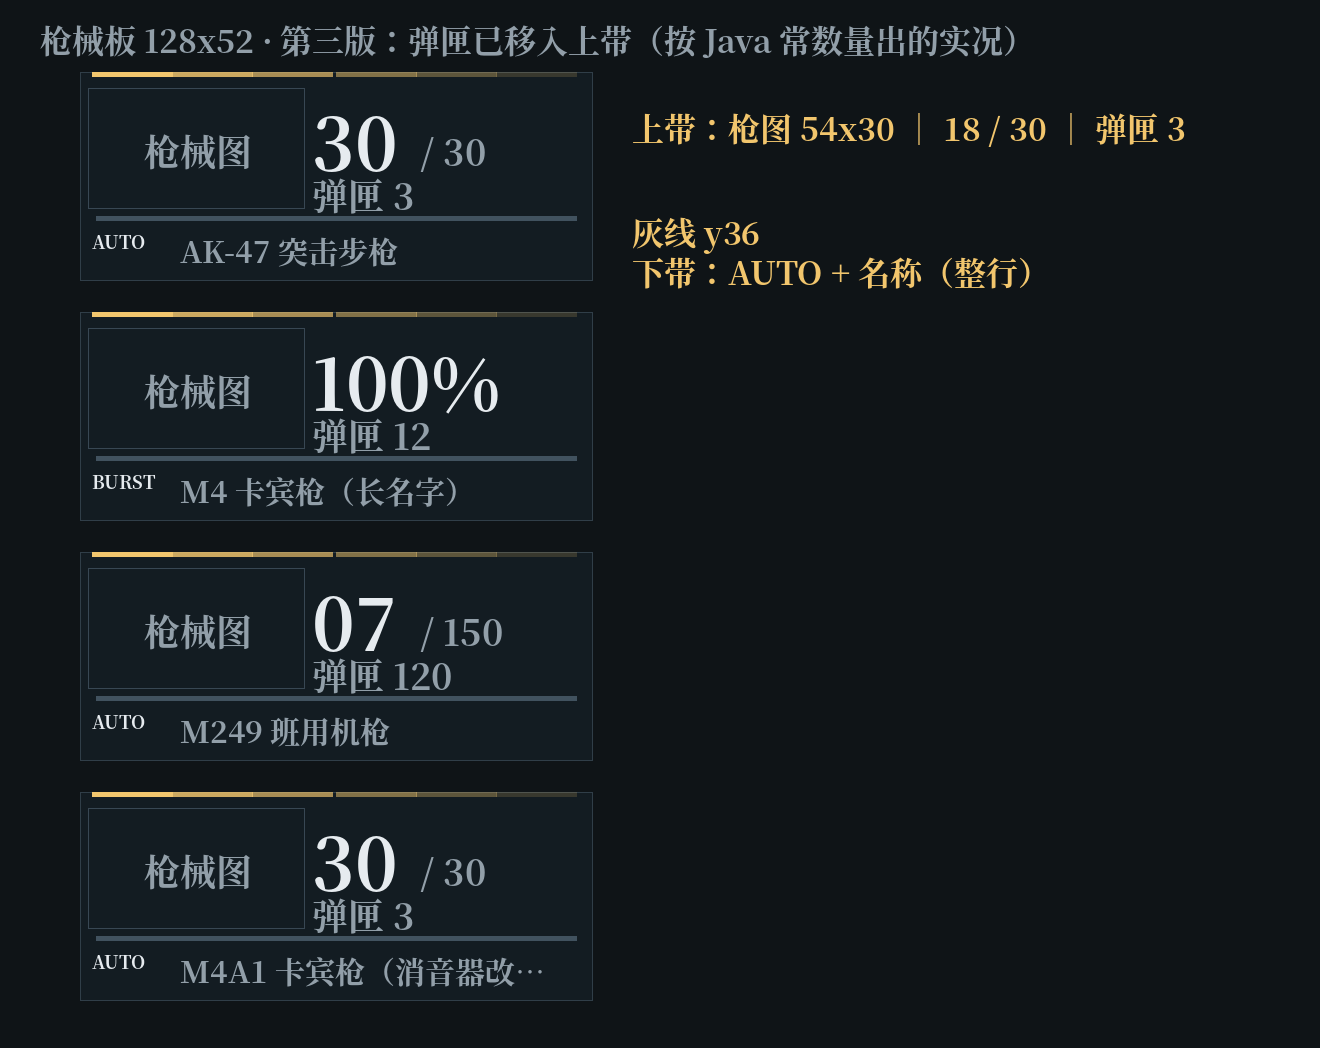
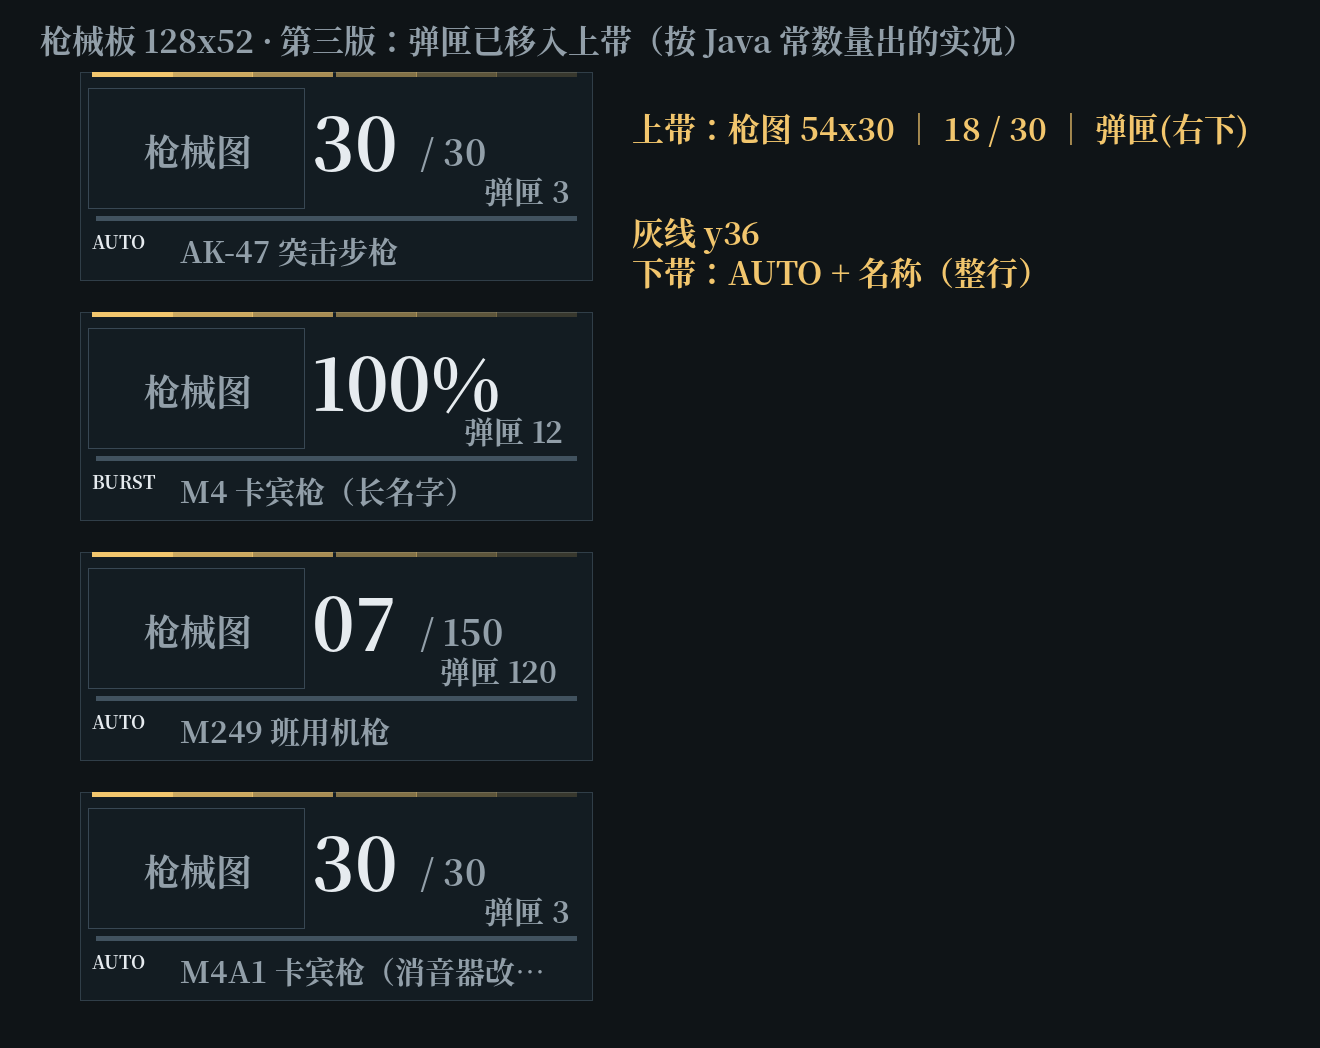
ui: park the reserve in the bottom-right corner of the upper band
Chosen instead of sharing the ammo line, which does not fit in 128px. The reserve
is right aligned inside the upper band and drawn at 0.85, so it reads as part of
that band while the whole caption row stays free for the gun name. Truncation
still keeps the number (clipTail) and the preview is regenerated.

diff --git a/src/main/java/dev/felix/hostilehumans/monitor/client/MonitorGunHud.java b/src/main/java/dev/felix/hostilehumans/monitor/client/MonitorGunHud.java
@@ -114,8 +114,12 @@ public final class MonitorGunHud {
         finally{g.pose().popPose();}
         if(capacityWidth>0)g.drawString(font,capacity,columnX+amountWidth+3,y+13,theme.muted(),false);
         String reserve=Component.translatable("human_monitor.gun.magazines",value.infinite()?"∞":value.magazines()).getString();
-        String reserveText=clipTail(font,reserve,columnRight-columnX);
-        g.drawString(font,reserveText,columnX,y+24,theme.muted(),false);
+        // Reserve sits in the bottom-right corner of the upper band, a step smaller than the rest.
+        float reserveScale=.85F;
+        String reserveText=clipTail(font,reserve,(int)((columnRight-columnX)/reserveScale));
+        int reserveWidth=Math.round(font.width(reserveText)*reserveScale);
+        g.pose().pushPose();try {g.pose().translate(columnRight-reserveWidth,y+24,0);g.pose().scale(reserveScale,reserveScale,1);g.drawString(font,reserveText,0,0,theme.muted(),false);}
+        finally{g.pose().popPose();}
         UiDraw.ruleFade(g,x+4,y+36,pw-8,theme.edge());
         // Caption row: fire mode, then the gun name across the rest of the width.
         String mode=value.reloading()?Component.translatable("human_monitor.gun.reloading").getString():data.energy()?"FE":data.mode();

diff --git a/docs/UI_FRAME.md b/docs/UI_FRAME.md
@@ -148,7 +148,7 @@
 
 现在 **128×52**，两条带：
 
-- **上带**：枪图 54×30 在左；右侧一列从 x=58 起紧贴枪图——第一行 `18 / 30`（大号弹数 + 紧跟其后的容量，这一对的配合保持不变），第二行是弹匣数。整列左对齐，不再浮在右边。
+- **上带**：枪图 54×30 在左；右侧一列从 x=58 起紧贴枪图——第一行 `18 / 30`（大号弹数 + 紧跟其后的容量，这一对的配合保持不变），弹匣数放在**这一带的右下角**、`0.85` 倍并右对齐，所以它既在上带里、也不会和弹数挤在一行。
 - **细分隔线**（y 36）。
 - **下带**：射击模式 + 武器名称，名字拿到整行剩余宽度（约 99px，比之前多一倍），放不下时按 8.5 的规则加省略号。
 
